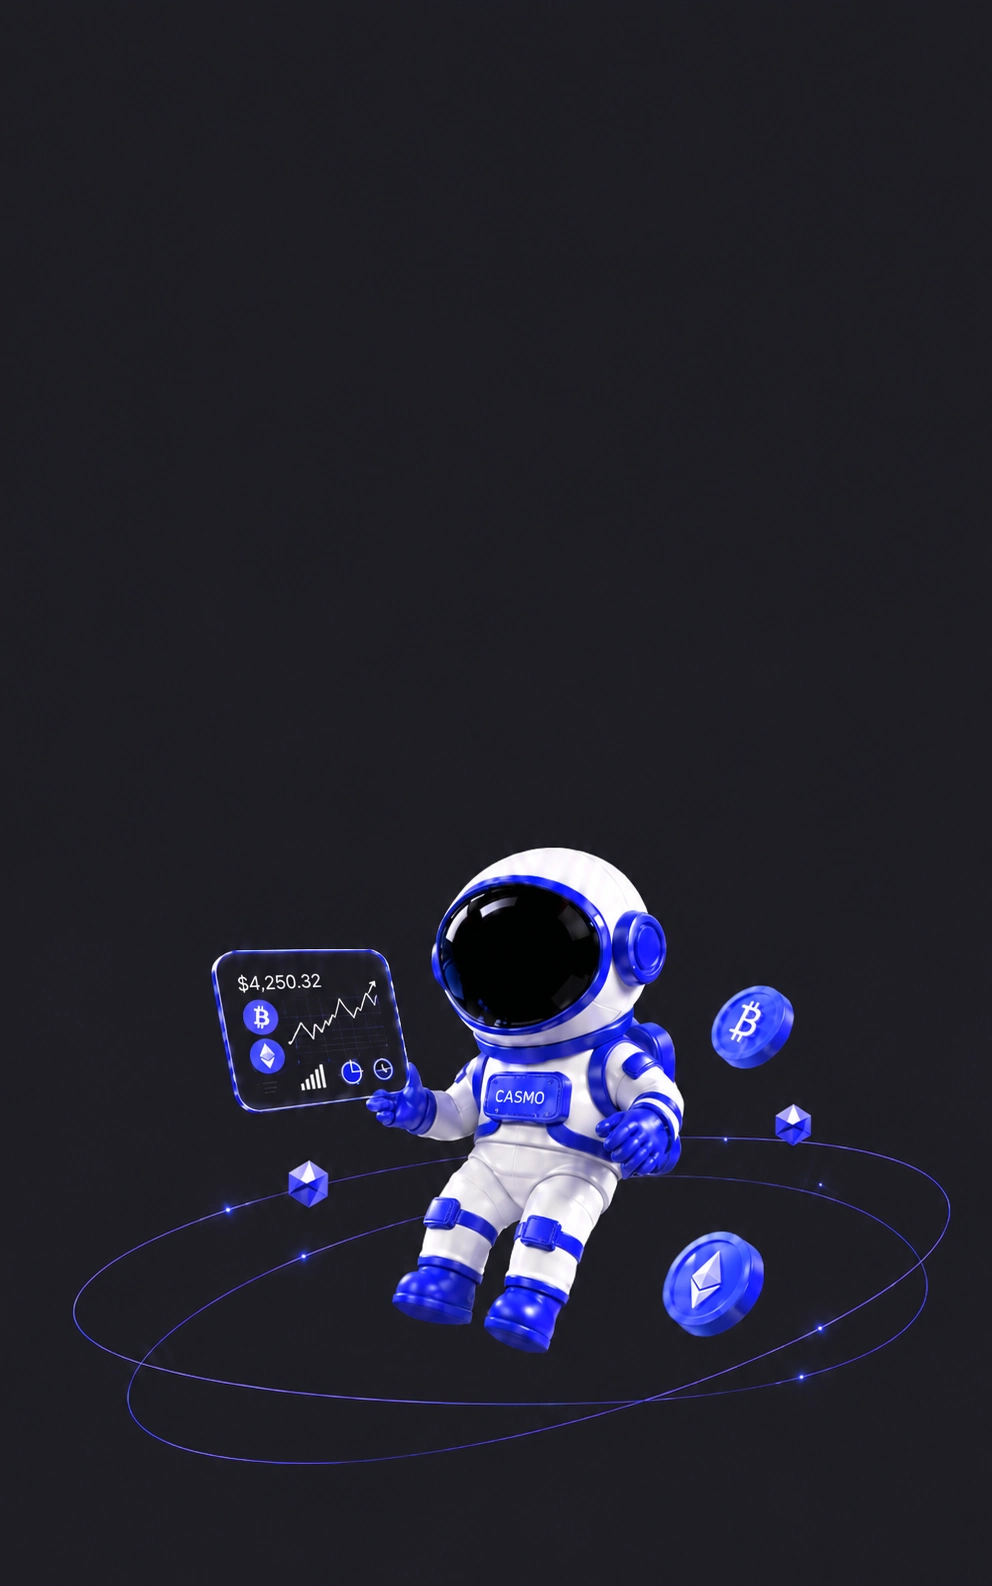
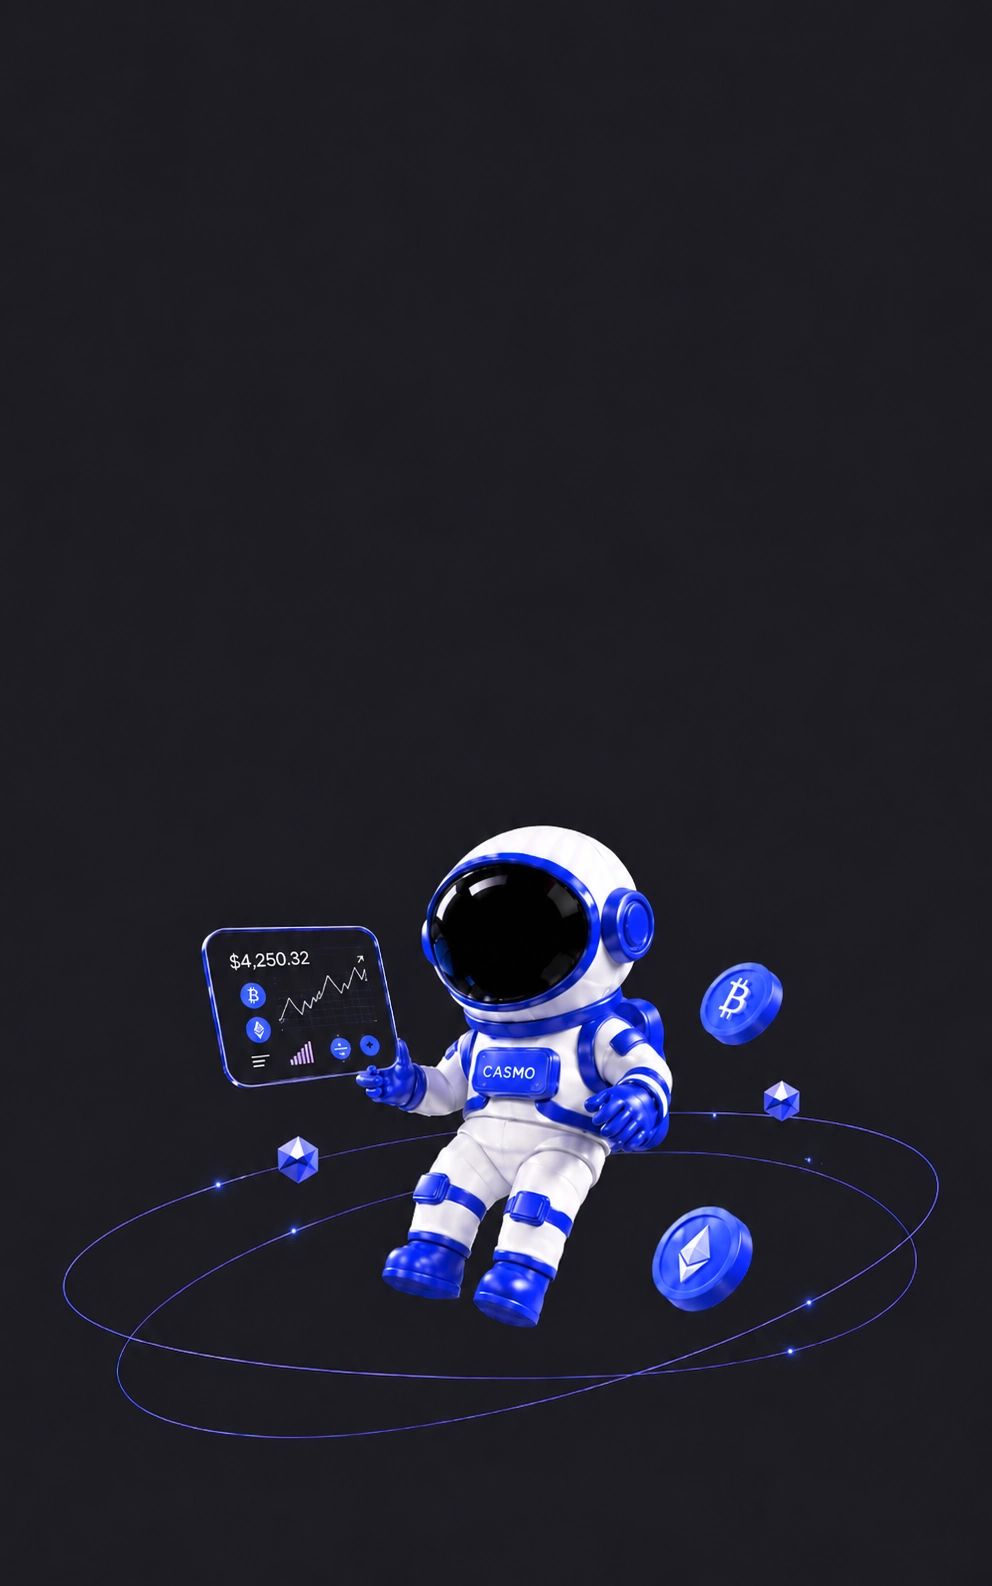
Add files via upload

diff --git a/index.html b/index.html
@@ -499,11 +499,11 @@ nav{position:fixed;top:0;left:0;right:0;z-index:200;height:66px;
     overflow:hidden;
   }
   .hero-mob-bg{position:absolute;inset:0;z-index:0}
-  .hero-mob-bg img{width:100%;height:100%;object-fit:cover;object-position:center bottom}
+  .hero-mob-bg img{width:100%;height:100%;object-fit:cover;object-position:center 90%}
   .hero-mob-content{
     position:relative;
     z-index:1;
-    padding:80px 20px 0;
+    padding:68px 20px 0;
     text-align:center;
   }
   .hero-mob-content h1{